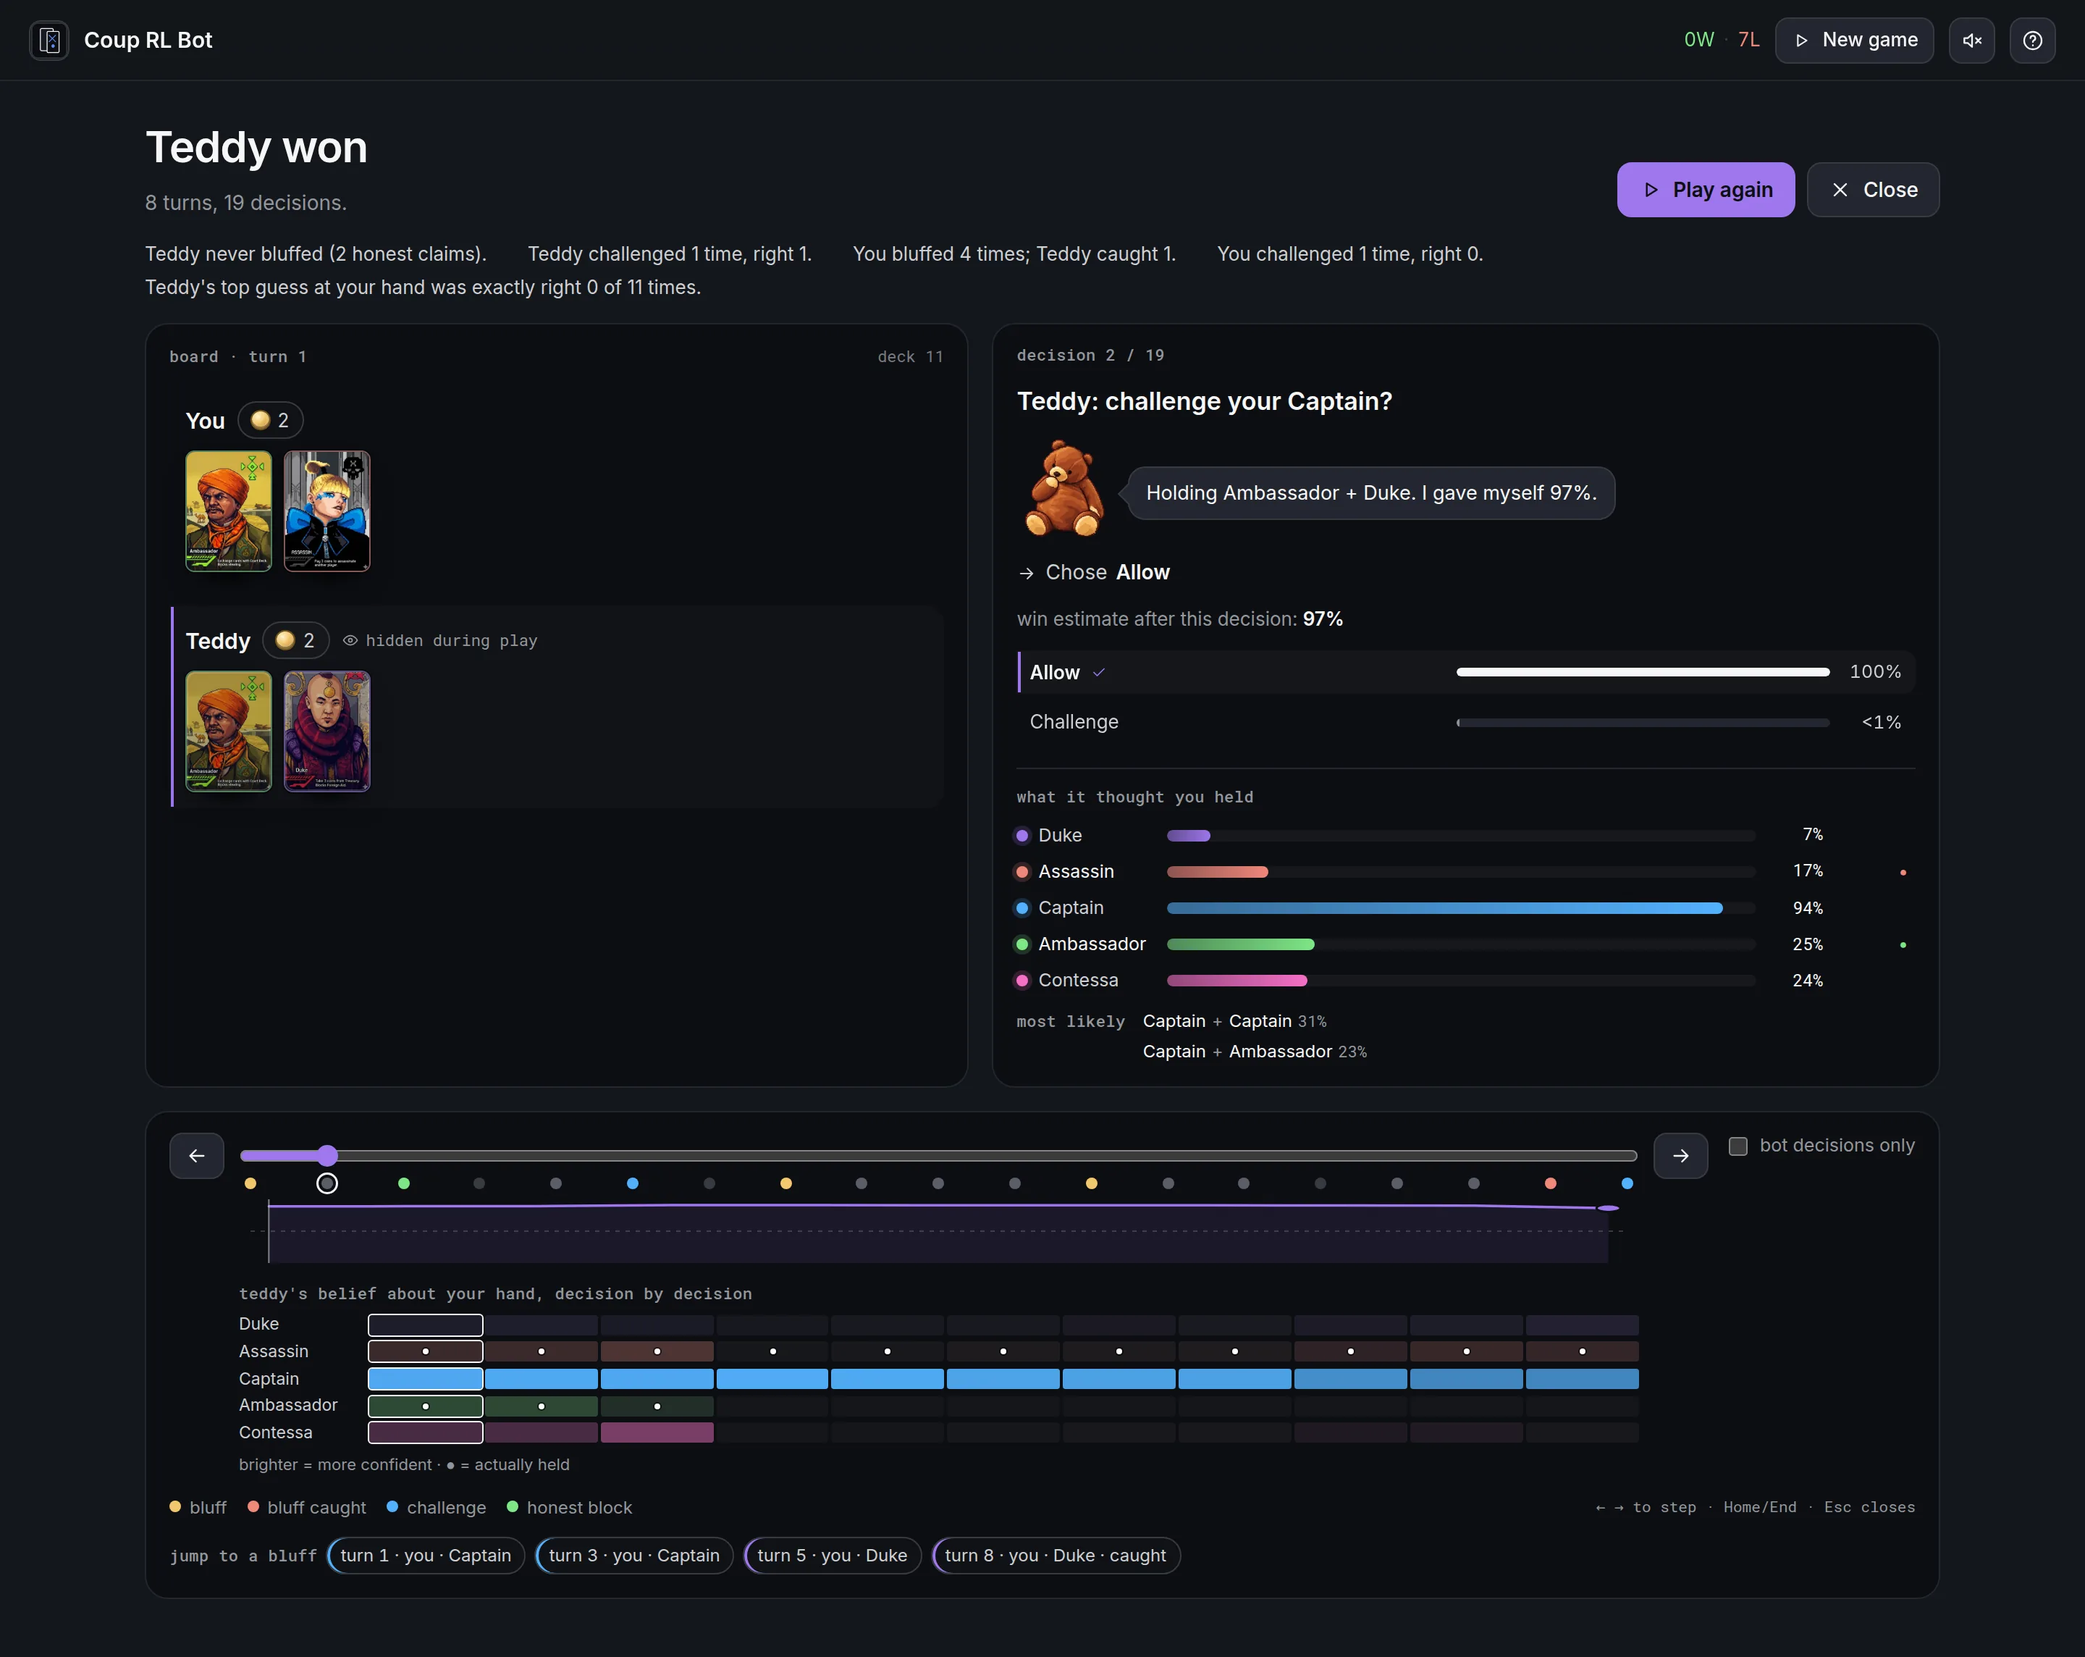
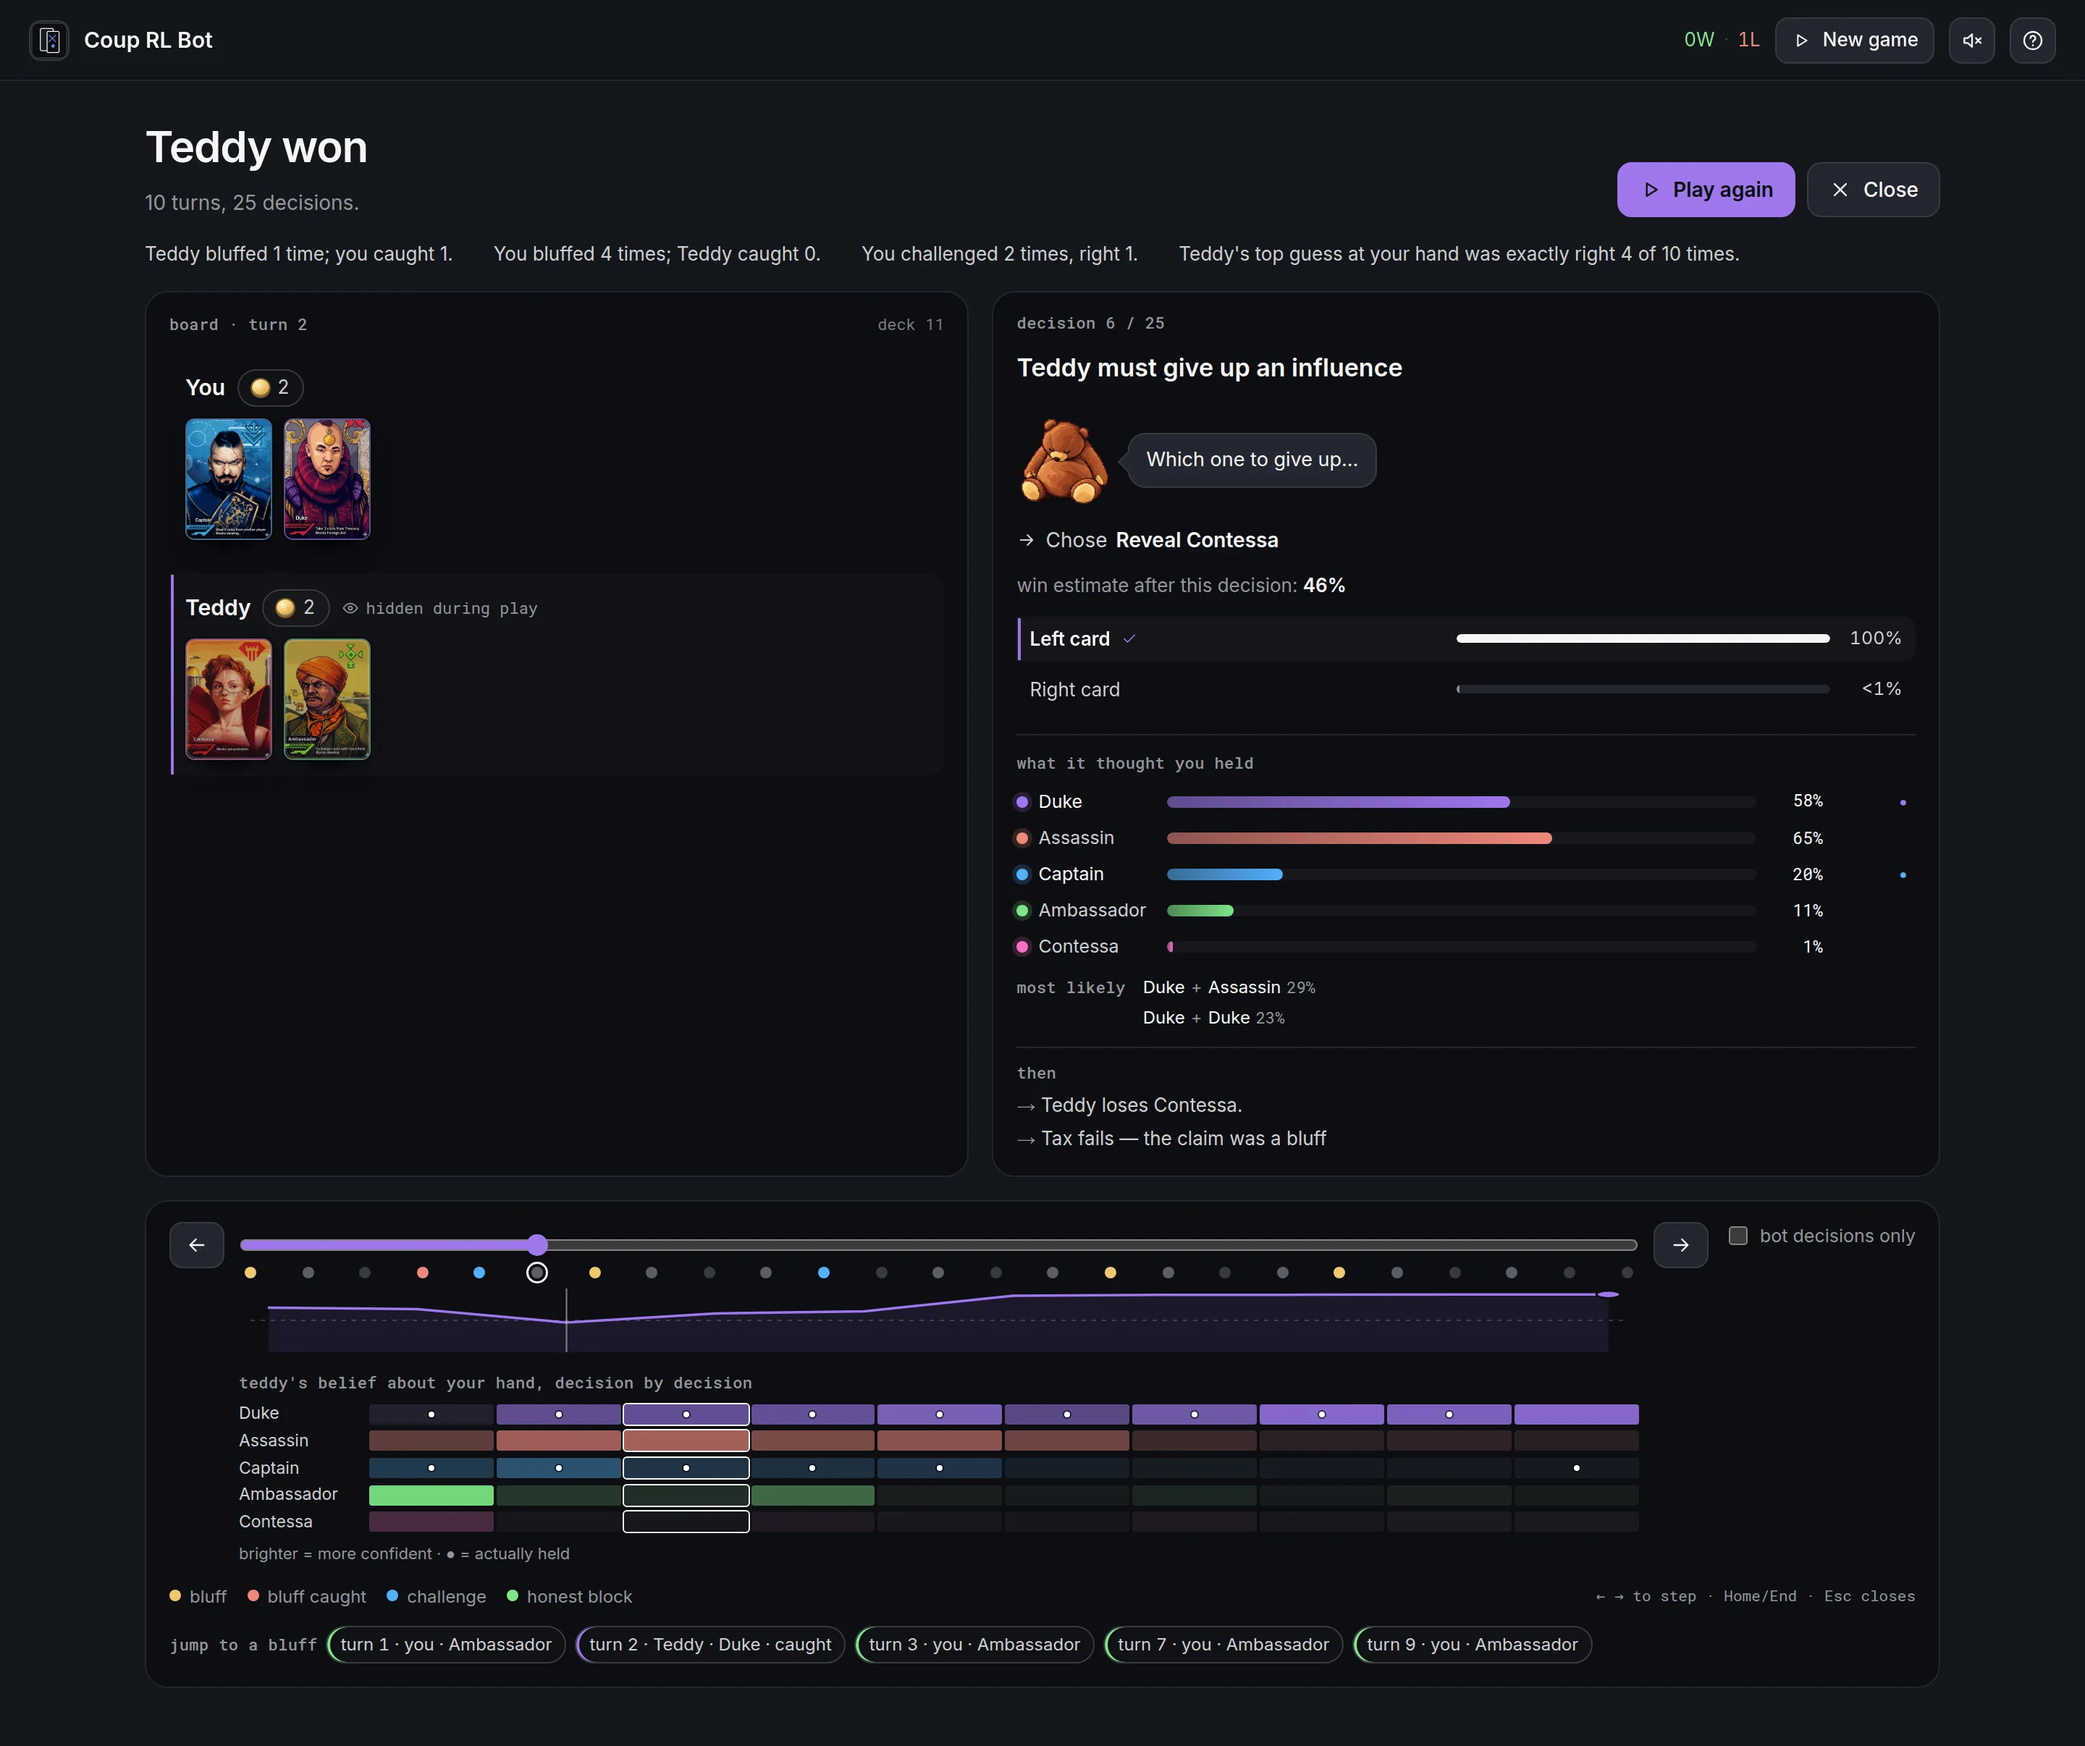
README screenshots: crop the lobby above the chart, show a typical review

diff --git a/README.md b/README.md
@@ -38,8 +38,8 @@ the heuristic (91.7%) and the zoo profiles (88.4%). All of these are bot-vs-bot 
 
 <img src="docs/images/strength.webp" alt="Gen 7 win rate against each opponent, with Gen 5 for comparison" width="560">
 
-**Guessing your hand.** Over 499,482 decisions, Teddy's top guess was exactly the
-opponent's hand **46.4%** of the time. Card counting alone, weighting every hand still
+**Guessing your hand.** Over 499,482 decisions in those bot-vs-bot games, Teddy's top
+guess was exactly the opponent's hand **46.4%** of the time. Card counting alone, weighting every hand still
 possible by how many ways it can be dealt, gets **20.4%**. Teddy never sees your cards:
 it guesses from claims, blocks, challenges and revealed cards, and the true hand is used
 only as a training label.
